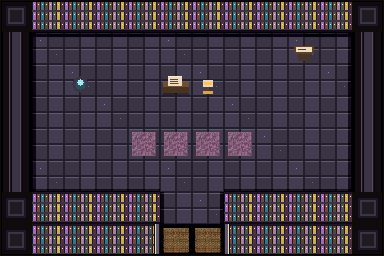
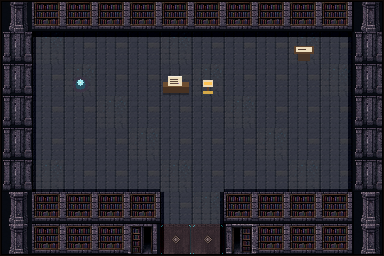
Fix melee auto-shots and ship Cursor-gen archive interior tiles.
Spawn bullets at Kaela so point-blank foes are not skipped, give the archive its own floor/wall/doormat art, and stop the cabin mat from overwriting the shared inn doormat.

diff --git a/lib/cyberpunk_space_rpg/components/custom_player.dart b/lib/cyberpunk_space_rpg/components/custom_player.dart
@@ -1343,14 +1343,14 @@ class CustomPlayer extends SimplePlayer with BlockMovementCollision, InstantFaci
     final dir = (target - origin);
     if (dir.length < 1) return;
     final n = dir.normalized();
-    // Spawn ahead of Kaela so the hitbox is not born inside a wall/foot tile
-    // (on web the hitbox can attach before the bullet moves, deleting the shot).
-    final spawnCenter = origin + n * 18;
+    // Spawn at Kaela (same as pulse). PlayerBullet ignores map hits until
+    // _muzzleClear, so feet/wall tiles do not eat the shot. Spawning far
+    // ahead skipped over melee-range foes and looked like a miss.
     gameRef.add(PlayerBullet(
-      spawnCenter - PlayerBullet.spriteSize / 2,
+      origin - PlayerBullet.spriteSize / 2,
       n,
     ));
-    gameRef.add(MuzzleFlash(spawnCenter, n));
+    gameRef.add(MuzzleFlash(origin + n * 14, n));
     SfxManager().playShoot();
     shotCount++;
     lastShotFrom = origin;

diff --git a/tools/interiors/assemble_archive_gen.py b/tools/interiors/assemble_archive_gen.py
@@ -1,0 +1,192 @@
+#!/usr/bin/env python3
+"""Pixelize Cursor-gen archive sources into 32px tile overrides.
+
+Reads tools/interiors/gen_src/archive/*.jpg, writes:
+  tools/interiors/gen_src/archive/tiles/<id>.png
+then pastes those ids into assets/images/interiors/tileset.png.
+
+Run before build_rooms.py (with cabin/grotto assemble) so archive art stays.
+"""
+from __future__ import annotations
+
+import sys
+from pathlib import Path
+
+from PIL import Image
+
+ROOT = Path(__file__).resolve().parents[2]
+GEN = Path(__file__).resolve().parent / "gen_src" / "archive"
+TILES = GEN / "tiles"
+OUT_SHEET = ROOT / "assets" / "images" / "interiors" / "tileset.png"
+sys.path.insert(0, str(ROOT / "tools"))
+from pixelize_gen import pixelize  # noqa: E402
+
+T = 32
+COLS = 16
+
+# Archive tile ids (must match build_rooms.py)
+STONE, STONE2 = 6, 7
+MAT_ARCHIVE = 14
+W_BOOKS = 22
+J_BOOK_L, J_BOOK_R = 34, 35
+ARCHIVE_RUG = 36
+W_BOOKS_S, W_BOOKS_C = 73, 78
+
+
+def opaque_tile(im: Image.Image, size: int = T) -> Image.Image:
+    im = im.convert("RGBA")
+    tmp = im.resize((size * 4, size * 4), Image.Resampling.LANCZOS)
+    out = tmp.resize((size, size), Image.Resampling.NEAREST)
+    px = out.load()
+    for y in range(size):
+        for x in range(size):
+            r, g, b, a = px[x, y]
+            if a < 255:
+                px[x, y] = (r, g, b, 255)
+    return out
+
+
+def find_content_box(im: Image.Image, dark: int = 28) -> tuple[int, int, int, int]:
+    px = im.load()
+    w, h = im.size
+    min_x, min_y, max_x, max_y = w, h, 0, 0
+    for y in range(h):
+        for x in range(w):
+            r, g, b, a = px[x, y]
+            if a < 8:
+                continue
+            if r > dark or g > dark or b > dark:
+                min_x = min(min_x, x)
+                min_y = min(min_y, y)
+                max_x = max(max_x, x)
+                max_y = max(max_y, y)
+    if max_x <= min_x:
+        return (0, 0, w, h)
+    return (min_x, min_y, max_x + 1, max_y + 1)
+
+
+def grid_cells(im: Image.Image, cols: int, rows: int) -> list[Image.Image]:
+    box = find_content_box(im)
+    grid = im.crop(box)
+    gw, gh = grid.size
+    cw, ch = gw // cols, gh // rows
+    pad = max(1, min(cw, ch) // 16)
+    cells: list[Image.Image] = []
+    for r in range(rows):
+        for c in range(cols):
+            x0, y0 = c * cw + pad, r * ch + pad
+            x1, y1 = (c + 1) * cw - pad, (r + 1) * ch - pad
+            cells.append(grid.crop((x0, y0, x1, y1)))
+    return cells
+
+
+def slice_floor(src: Path) -> dict[int, Image.Image]:
+    raw = Image.open(src).convert("RGBA")
+    side = min(raw.size)
+    left = (raw.width - side) // 2
+    top = (raw.height - side) // 2
+    crop = raw.crop((left, top, left + side, top + side))
+    grid = crop.resize((T * 4, T * 2), Image.Resampling.LANCZOS)
+    grid = grid.resize((T * 4, T * 2), Image.Resampling.NEAREST)
+    a = grid.crop((0, 0, T, T))
+    b = grid.crop((T, 0, T * 2, T))
+    return {STONE: opaque_tile(a), STONE2: opaque_tile(b)}
+
+
+def slice_walls(src: Path) -> dict[int, Image.Image]:
+    """archive_wall_sheet is a 4×3 atlas: books, pillars, jambs/door/corner."""
+    raw = Image.open(src).convert("RGBA")
+    cells = grid_cells(raw, 4, 3)
+    # Row0: books×4 — Row1: books×2, pillar sides×2 — Row2: jamb L, door, jamb R, corner
+    return {
+        W_BOOKS: opaque_tile(cells[0]),
+        W_BOOKS_S: opaque_tile(cells[6]),
+        J_BOOK_L: opaque_tile(cells[8]),
+        J_BOOK_R: opaque_tile(cells[10]),
+        W_BOOKS_C: opaque_tile(cells[11]),
+    }
+
+
+def clear_dark_bg(im: Image.Image) -> Image.Image:
+    im = im.convert("RGBA")
+    px = im.load()
+    for y in range(im.height):
+        for x in range(im.width):
+            r, g, b, a = px[x, y]
+            if a == 0:
+                continue
+            if r < 28 and g < 28 and b < 28:
+                px[x, y] = (0, 0, 0, 0)
+            elif r < 40 and g < 40 and b < 40 and max(r, g, b) - min(r, g, b) < 8:
+                px[x, y] = (0, 0, 0, 0)
+    return im
+
+
+def prop_tile(src: Path, tid: int) -> Image.Image:
+    tmp = TILES / f"_raw_{tid}.png"
+    pixelize(src, tmp, T, T, pad=0.08)
+    return clear_dark_bg(Image.open(tmp).convert("RGBA"))
+
+
+def mat_tile(src: Path) -> Image.Image:
+    """Full-bleed floor mat — keep opaque (door threshold is a floor cell)."""
+    raw = Image.open(src).convert("RGBA")
+    side = min(raw.size)
+    left = (raw.width - side) // 2
+    top = (raw.height - side) // 2
+    crop = raw.crop((left, top, left + side, top + side))
+    return opaque_tile(crop)
+
+
+def rug_tile(src: Path) -> Image.Image:
+    """Inset crop so neighbouring rug cells join as one runner (no frame)."""
+    raw = Image.open(src).convert("RGBA")
+    side = min(raw.size)
+    left = (raw.width - side) // 2
+    top = (raw.height - side) // 2
+    crop = raw.crop((left, top, left + side, top + side))
+    pad = max(1, int(side * 0.12))
+    inner = crop.crop((pad, pad, side - pad, side - pad))
+    return opaque_tile(inner)
+
+
+def assemble_props() -> dict[int, Image.Image]:
+    return {
+        MAT_ARCHIVE: mat_tile(GEN / "archive_doormat.jpg"),
+        ARCHIVE_RUG: rug_tile(GEN / "archive_rug.jpg"),
+    }
+
+
+def patch_sheet(tiles: dict[int, Image.Image]) -> None:
+    sheet = Image.open(OUT_SHEET).convert("RGBA")
+    rows_needed = max(tiles) // COLS + 1
+    need_h = rows_needed * T
+    if sheet.height < need_h:
+        bigger = Image.new("RGBA", (COLS * T, need_h), (0, 0, 0, 0))
+        bigger.paste(sheet, (0, 0))
+        sheet = bigger
+    for tid, tile in tiles.items():
+        assert tile.size == (T, T), (tid, tile.size)
+        x, y = (tid % COLS) * T, (tid // COLS) * T
+        sheet.paste(Image.new("RGBA", (T, T), (0, 0, 0, 0)), (x, y))
+        sheet.alpha_composite(tile, (x, y))
+    sheet.save(OUT_SHEET)
+    print(f"patched {OUT_SHEET} ({len(tiles)} archive tiles)")
+
+
+def main() -> int:
+    TILES.mkdir(parents=True, exist_ok=True)
+    tiles: dict[int, Image.Image] = {}
+    tiles.update(slice_floor(GEN / "archive_floor_sheet.jpg"))
+    tiles.update(slice_walls(GEN / "archive_wall_sheet.jpg"))
+    tiles.update(assemble_props())
+    for tid, im in tiles.items():
+        path = TILES / f"{tid}.png"
+        im.save(path)
+        print(f"wrote {path}")
+    patch_sheet(tiles)
+    return 0
+
+
+if __name__ == "__main__":
+    raise SystemExit(main())

diff --git a/tools/interiors/build_rooms.py b/tools/interiors/build_rooms.py
@@ -722,6 +722,7 @@ STONE, STONE2 = 6, 7
 CAVE, CAVE2 = 8, 9
 POOL, MOSS_F = 10, 11
 MAT, MAT_CAVE = 12, 13
+MAT_ARCHIVE, MAT_CABIN = 14, 15
 W_TEA, W_TEA_WIN = 16, 17
 W_NOODLE, W_NEON = 18, 19
 W_LOG, W_FIRE = 20, 21
@@ -732,6 +733,7 @@ J_NOODLE_L, J_NOODLE_R = 28, 29
 J_LOG_L, J_LOG_R = 30, 31
 J_CAVE_L, J_CAVE_R = 32, 33
 J_BOOK_L, J_BOOK_R = 34, 35
+ARCHIVE_RUG = 36
 # Side + corner companions (E/W / posts). Face walls stay 16–25.
 W_TEA_S, W_NOODLE_S, W_LOG_S, W_BOOKS_S, W_CAVE_S = 70, 71, 72, 73, 74
 W_TEA_C, W_NOODLE_C, W_LOG_C, W_BOOKS_C, W_CAVE_C = 75, 76, 77, 78, 79
@@ -828,6 +830,7 @@ def build_sheet() -> Image.Image:
         CAVE: cave_floor(0), CAVE2: cave_floor(1),
         POOL: pool(), MOSS_F: moss_floor(),
         MAT: mat(False), MAT_CAVE: mat(True),
+        MAT_ARCHIVE: mat(False), MAT_CABIN: mat(False),
         W_TEA: tea_wall(), W_TEA_WIN: tea_window(),
         W_NOODLE: noodle_wall(), W_NEON: neon_wall(),
         W_LOG: log_wall(), W_FIRE: fire_wall(),
@@ -842,6 +845,7 @@ def build_sheet() -> Image.Image:
         J_LOG_L: jamb(log_wall, "l", rgba(140, 100, 60)), J_LOG_R: jamb(log_wall, "r", rgba(140, 100, 60)),
         J_CAVE_L: jamb(cave_wall, "l", CL), J_CAVE_R: jamb(cave_wall, "r", CL),
         J_BOOK_L: jamb(books_wall, "l", SL), J_BOOK_R: jamb(books_wall, "r", SL),
+        ARCHIVE_RUG: rug(),
         COUNTER: counter(), URN: counter("urn"), POTS: counter("pots"), TIN: counter("tin"),
         TABLE: table(), CUSHION: cushion(),
         BED_H: bed(True), BED_F: bed(False),
@@ -864,6 +868,9 @@ def build_sheet() -> Image.Image:
         if W_CAVE in overrides and W_CAVE_S not in overrides:
             tiles[W_CAVE_S] = _side_from_face(overrides[W_CAVE], "cave")
             tiles[W_CAVE_C] = _corner_from_face(overrides[W_CAVE])
+        if W_BOOKS in overrides and W_BOOKS_S not in overrides:
+            tiles[W_BOOKS_S] = _side_from_face(overrides[W_BOOKS], "cave")
+            tiles[W_BOOKS_C] = _corner_from_face(overrides[W_BOOKS])
         print(f"gen overrides: {sorted(overrides)} ({len(overrides)} tiles)")
     rows = max(tiles) // COLS + 1
     sheet = Image.new("RGBA", (COLS * T, rows * T), (0, 0, 0, 0))
@@ -1180,7 +1187,7 @@ def noodle() -> dict:
 
 
 def ranger() -> dict:
-    F, P = shell(W_LOG, W_LOG_S, W_LOG_C, CABIN, MAT, J_LOG_L, J_LOG_R)
+    F, P = shell(W_LOG, W_LOG_S, W_LOG_C, CABIN, MAT_CABIN, J_LOG_L, J_LOG_R)
     for x in (2, 3, 4):
         F[0][x] = W_FIRE
     for x in (5, 6, 7):
@@ -1221,13 +1228,12 @@ def ranger() -> dict:
 
 
 def archive() -> dict:
-    F, P = shell(W_BOOKS, W_BOOKS_S, W_BOOKS_C, STONE, MAT, J_BOOK_L, J_BOOK_R)
+    F, P = shell(W_BOOKS, W_BOOKS_S, W_BOOKS_C, STONE, MAT_ARCHIVE, J_BOOK_L, J_BOOK_R)
     vary(F, STONE, STONE2)
     P[1][9] = LECTERN
     P[2][2] = GLYPH
     P[2][5] = DESK
     P[2][6] = LAMP
-    P[4][4], P[4][5], P[4][6], P[4][7] = RUG, RUG, RUG, RUG
     return room(
         "archive_library",
         "Archive library (Archive Square, opened by the Archivist's seal)",

diff --git a/tools/interiors/assemble_cabin_gen.py b/tools/interiors/assemble_cabin_gen.py
@@ -27,7 +27,8 @@ COLS = 16
 
 # Cabin tile ids (must match build_rooms.py)
 CABIN, CABIN2 = 4, 5
-MAT = 12
+# Dedicated cabin mat — do not overwrite shared MAT=12 (tea/noodle).
+MAT_CABIN = 15
 W_LOG, W_FIRE = 20, 21
 W_MAP = 24
 J_LOG_L, J_LOG_R = 30, 31
@@ -159,7 +160,7 @@ def assemble_props() -> dict[int, Image.Image]:
         RUG: "cabin_rug.jpg",
         BED_C_H: "cabin_bed_head.jpg",
         BED_C_F: "cabin_bed_foot.jpg",
-        MAT: "cabin_doormat.jpg",
+        MAT_CABIN: "cabin_doormat.jpg",
     }
     out: dict[int, Image.Image] = {}
     for tid, name in mapping.items():

diff --git a/assets/images/interiors/README.md b/assets/images/interiors/README.md
@@ -25,6 +25,7 @@ Rebuild art and JSON together:
 ```
 python3 tools/interiors/assemble_cabin_gen.py
 python3 tools/interiors/assemble_grotto_gen.py
+python3 tools/interiors/assemble_archive_gen.py
 python3 tools/interiors/build_rooms.py
 ```
 
@@ -32,9 +33,10 @@ That script is the layout source. It writes `tileset.png`, each `<id>.png`
 (the baked picture, for review) and each `<id>.json`. The game draws the
 JSON layers, not the PNG. Do not commit @2x previews.
 
-**Cursor-gen pilots:** `ranger_cabin` and `pond_grotto` tiles live under
-`tools/interiors/gen_src/{cabin,grotto}/`, pixelized to 32px. Other rooms
-still use Pillow placeholders until their pass.
+**Cursor-gen pilots:** `ranger_cabin`, `pond_grotto`, and `archive_library`
+tiles live under `tools/interiors/gen_src/{cabin,grotto,archive}/`, pixelized
+to 32px. Tea house and noodle shop still use Pillow placeholders until their
+pass.
 
 ## Tileset
 
@@ -51,8 +53,10 @@ margin 0. Local id `n` is column `n % 16`, row `n ~/ 16`.
 | 10 | floor | pool (solid) |
 | 11 | floor | moss |
 | 12–13 | floor | doormat (inn / cave). Walkable; stepping on it leaves |
+| 14–15 | floor | doormat (archive / cabin). Walkable; stepping on it leaves |
 | 16–25 | floor | walls (N/S face): tea, tea window, noodle, neon, log, hearth, books, cave, map, drip |
 | 26–35 | floor | door jambs (tea, noodle, log, cave, books), left then right |
+| 36 | props | archive runner rug (walkable) |
 | 40–69 | props | counter, urn, pots, tin, table, cushion, bed, plant, screen, chest, draft desk, journal, note, lamp, crate, fridge, bowl, crystal, rock, logs, nightstand, stool, rug, cabin bed, lectern, glyph, barrel, fern |
 | 70–74 | floor | E/W side walls (tea, noodle, log, books, cave) |
 | 75–79 | floor | corner posts (same order) |
